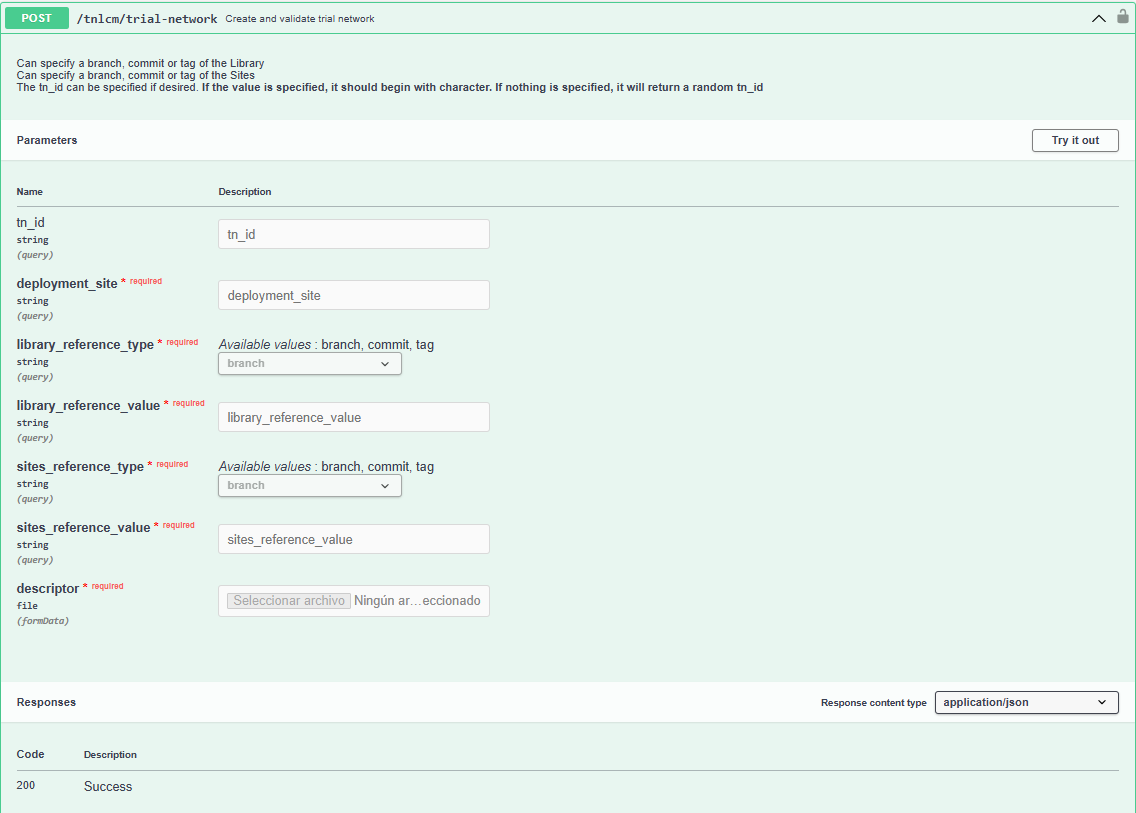
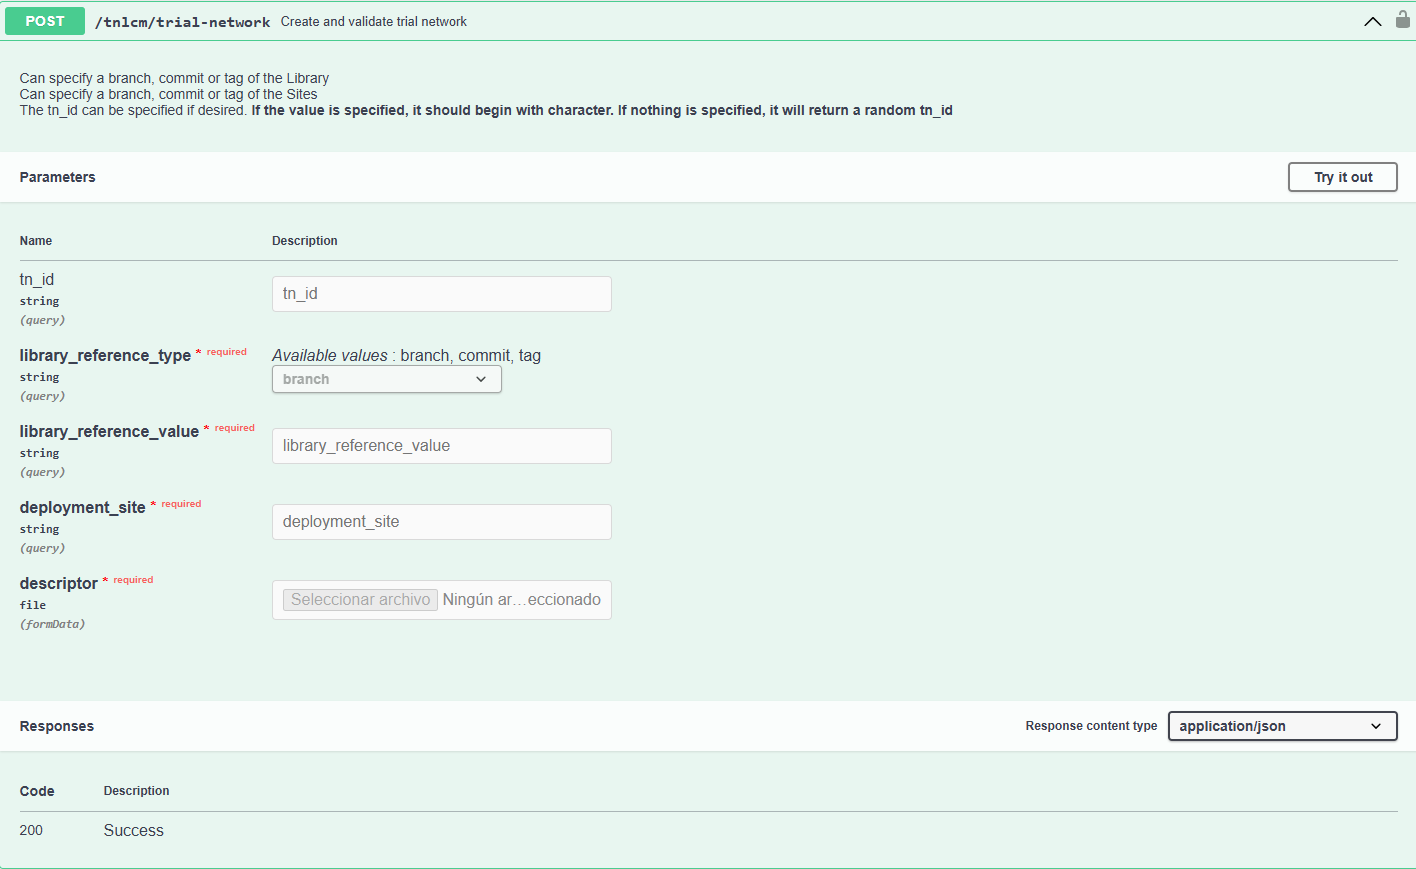
fix: create trial network image

diff --git a/docs/tnlcm/swagger-ui.md b/docs/tnlcm/swagger-ui.md
@@ -44,11 +44,9 @@ Once logged into TNLCM, execute the POST request of the `trial-network` namespac
 Fill in the following fields:
 
 - `tn_id`: must start with a character and be at least 4 characters long. This field can be left blank, in which case a random value will be generated.
-- `deployment_site`: must be one of the sites available in the [6G-Sandbox-Sites](https://github.com/6G-SANDBOX/6G-Sandbox-Sites) repository.
 - `library_reference_type`: you can specify a branch, tag, or commit of the 6G-Library repository.
 - `library_reference_value`: value corresponding to the type specified in the `library_reference_type` field.
-- `sites_reference_type`: you can specify a branch, tag, or commit of the 6G-Sandbox-Sites repository.
-- `sites_reference_value`: value corresponding to the type specified in the `sites_reference_type` field.
+- `deployment_site`: must be one of the branches available in the [6G-Sandbox-Sites](https://github.com/6G-SANDBOX/6G-Sandbox-Sites) repository.
 - `descriptor`: descriptor file containing the definition of the trial network. To create a descriptor file, refer to the [Trial Network Descriptor Guide](https://github.com/6G-SANDBOX/TNLCM/wiki/Trial-Network-Descriptor-Guide) section.
 
 ## Deploy trial network
